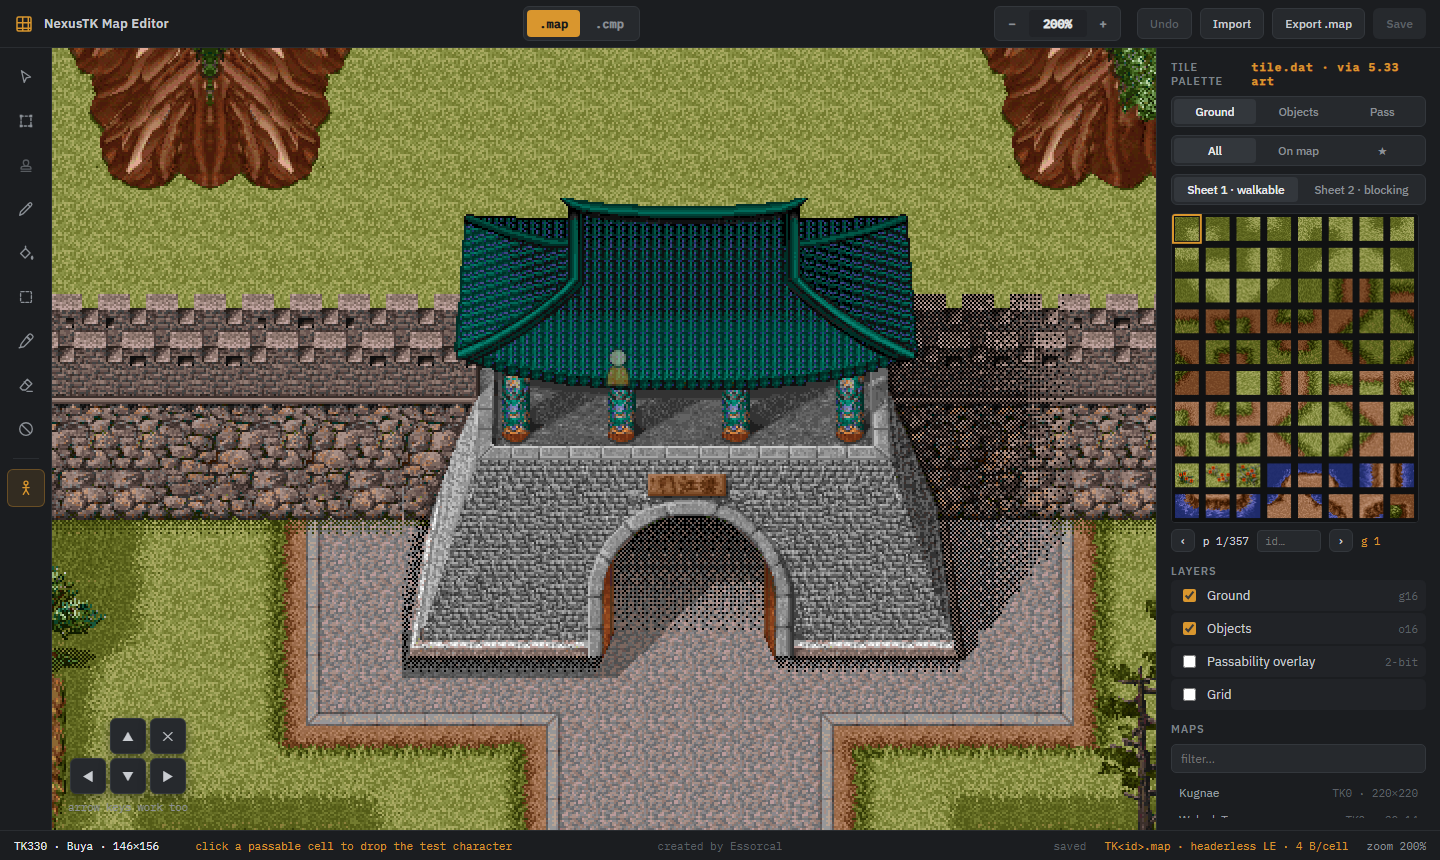
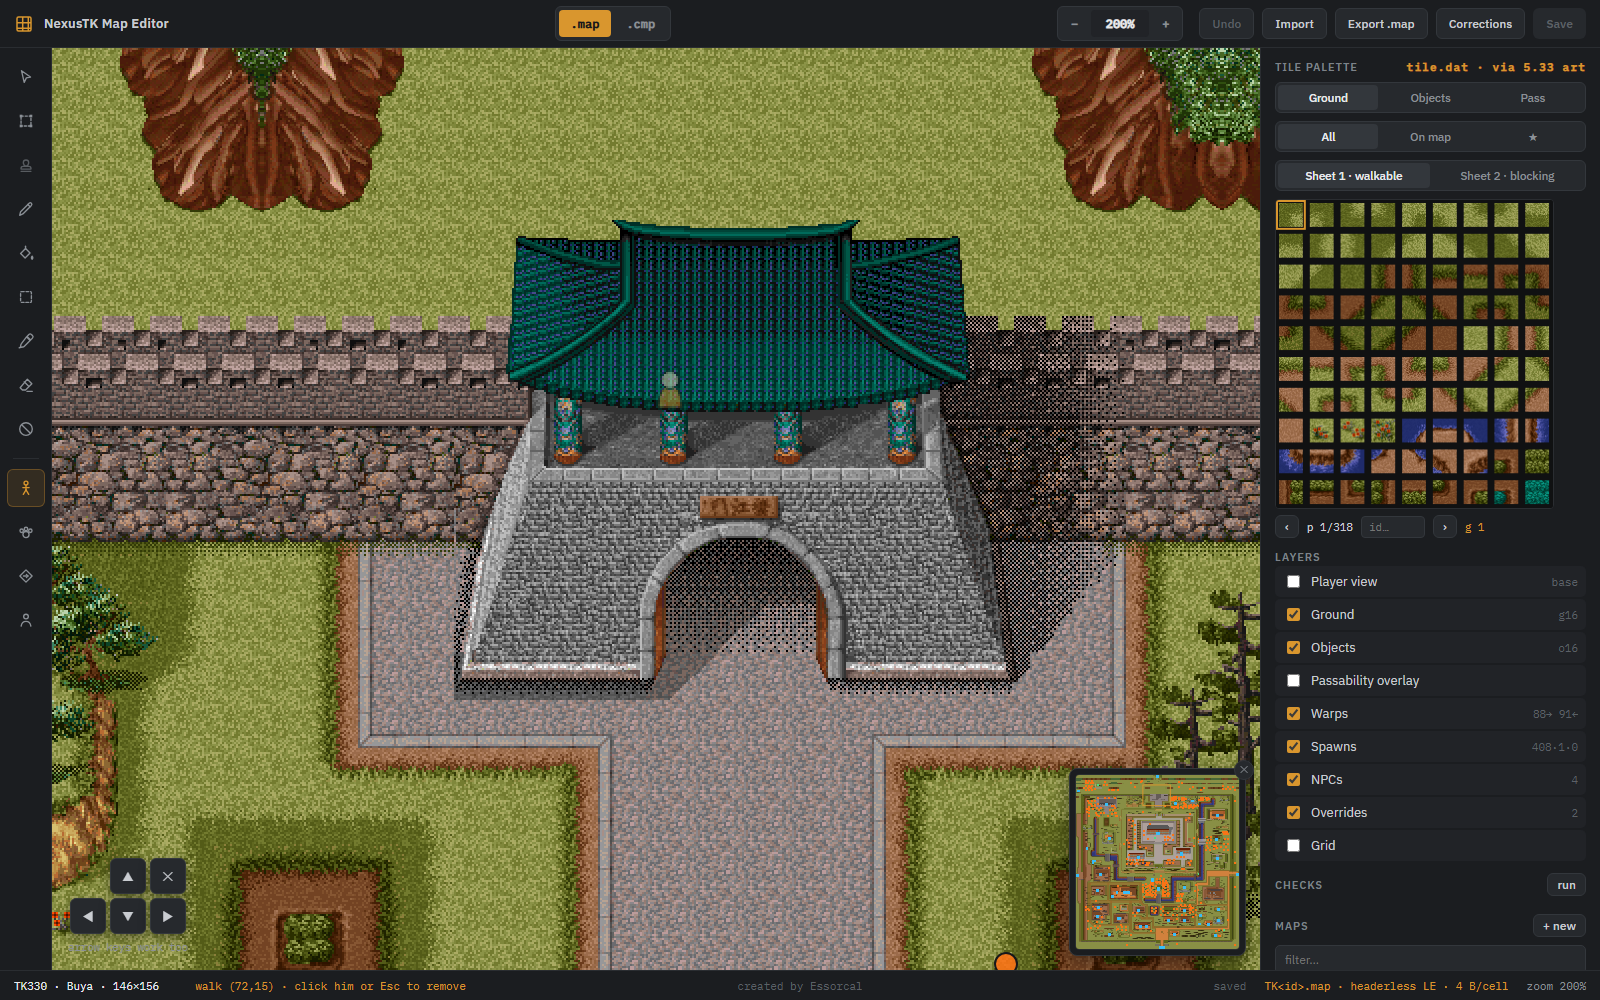
docs(mapeditor): README catch-up + refreshed screenshots
The intro, quick tour, saved-folder list, test-character, checks, and
URL-params sections catch up with everything since V1 (placement tools,
drafts, new maps, player view, warp following); all four screenshots retaken
against the current UI plus a new player-view shot of the south gate open.

diff --git a/MapEditor/README.md b/MapEditor/README.md
@@ -3,6 +3,11 @@
 A visual editor for Project1998's world maps. It renders the game's maps with the real
 5.33 client tile art — verified pixel-identical to the running game — and edits the 4.x
 `.map` files the server actually serves, with import/export for both client formats.
+Beyond tile painting it knows the *content* on the map (warps, spawns, NPCs,
+`MapCells.csv` overrides show as marker layers), can render exactly what players see
+(Player view), places new spawns/warps/NPCs and whole new maps, and turns edits into
+reviewable CSV rows — while **never writing a game file itself**: everything it
+produces lands in its own `saved\` folder for you to publish deliberately.
 
 ![The editor showing Kugnae](docs/img/ui-main.png)
 
@@ -35,8 +40,8 @@ The editor also needs the 5.33 client's `Tile.dat` for the artwork. It looks, in
 | next to the `.exe` | drop a copy of `Tile.dat` beside the program |
 | `%LOCALAPPDATA%\Project1998\game\533\` | the standard Project1998 client install |
 
-If either the maps or `Tile.dat` can't be found, the console says exactly what's missing
-and where it looked.
+If either the maps or `Tile.dat` can't be found, a message box says exactly what's
+missing and where it looked (the log has the same).
 
 ### From source
 
@@ -53,14 +58,20 @@ dotnet publish MapEditor/MapEditor.csproj -c Release -r win-x64 --self-contained
 ## A quick tour
 
 - **Top bar** — the `.map` / `.cmp` format switch (hover for which client each belongs
-  to), zoom controls, Undo, Import, Export, and Save.
+  to), zoom controls, Undo, Import, Export, **Corrections** (export `MapCells.csv`
+  rows), **Discard draft** (when the loaded map has one), and Save.
 - **Left rail** — the tools (hover any icon for what it does): select, marquee, stamp,
-  brush, flood fill, rectangle, eyedropper, eraser, passability toggle, and the test
-  character.
-- **Right panel** — the tile palette, layer toggles, and the map list. **Drag the
+  brush, flood fill, rectangle, eyedropper, eraser, passability toggle, then the test
+  character and the three placement tools — spawns (paw), warp pairs (diamond-arrow),
+  and NPCs (person).
+- **Right panel** — the tile palette, the layer toggles (including **Player view**),
+  the **Checks** lint, and the map list with **+ new** for creating maps. **Drag the
   panel's left edge** to make it wider; the palette grows more columns.
-- **Bottom bar** — current map, the cell under your cursor (its ground word, pass flag
-  and object id), tool hints, unsaved-change count, and zoom.
+- **Canvas overlays** — the clickable minimap floats bottom-right (✕ hides it), and
+  the active placement tool's box sits bottom-left.
+- **Bottom bar** — current map (and its `· draft` state), the cell under your cursor
+  (ground word, pass flag, object id, plus any markers on it), tool hints,
+  unsaved-change count, and zoom.
 
 ## Finding tiles
 
@@ -122,8 +133,10 @@ every blocking cell red.
 This is a development tool, so **nothing the editor generates goes into `game-data`**.
 Everything it produces lives with the tool under `dist\NexusTK-Map-Editor\saved\`:
 
-- `saved\maps\TK<id>.map` — draft saves (**Save / Ctrl+S**)
-- `saved\csvs\` — exported Corrections and Spawns rows
+- `saved\maps\TK<id>.map` — draft saves (**Save / Ctrl+S**), including new maps
+- `saved\csvs\` — exported rows: Corrections (`mapcells-TK<id>.csv`), spawns
+  (`spawns-TK<id>.csv`), warps (`warps-pending.csv`), NPCs (`npcs-pending.csv`)
+- `saved\new-maps.csv` — index rows for maps created in the editor
 
 Save **never overwrites the shipped map** in `game-data\maps`. Loading a map prefers its
 draft, so your work is there next session; the status bar shows `· draft`, and the map
@@ -140,16 +153,18 @@ Getting an edit into the actual game is deliberate and manual — either:
 
 ## The test character
 
-The last tool in the rail drops a walkable test character. Move with the **arrow keys**
-or the on-screen pad; blocked cells refuse the step, and walking behind trees, roofs and
-walls shows the same translucent ghost the real client draws. Remove the character by
-clicking it, pressing `Esc`, or the ✕ on the pad.
+The walk tool drops a test character. Move with the **arrow keys** or the on-screen
+pad; blocked cells refuse the step, and walking behind trees, roofs and walls shows the
+same translucent ghost the real client draws. It always walks the **base** pass flags —
+the ones the server actually enforces — so it strolls through the default-open city
+gates and onto override-fixed cells even when the raw file draws them blocked. Remove
+the character by clicking it, pressing `Esc`, or the ✕ on the pad.
 
 ![Test character ghosting behind the Buya north gate](docs/img/ui-walkmode.png)
 
 ## World markers
 
-Three read-only overlay layers (Layers panel) show the cells that server content points
+Read-only overlay layers (Layers panel) show the cells that server content points
 at, so you don't paint over them blind. They read the live `game-data` CSVs on every map
 load — edit a CSV and reload to see the change.
 
@@ -174,19 +189,29 @@ load — edit a CSV and reload to see the change.
   and check here before "fixing" a cell that may already be fixed: a new Corrections row
   for the same cell would shadow the existing hand-authored one.
 
-![Warp diamonds and spawn dots over Kugnae, minimap in the panel](docs/img/ui-markers.png)
+![Warp diamonds, spawn dots and override squares over Arctic Village](docs/img/ui-markers.png)
+
+![Player view opens Kugnae's south gate — the shipped file draws it closed](docs/img/ui-playerview.png)
 
 Hovering any marked cell names it in the bottom bar — the warp's destination, the mob,
 the NPC. Below 100% zoom the glyphs become solid cell tints so they stay visible in a
 whole-map overview.
 
+**Warps are usable, not just visible**: with the select tool, clicking a warp diamond
+follows it — a source jumps you to its landing on the destination map, an arrival jumps
+you back to its source. And the test character warps for real: step it onto a warp
+source and it lands on the other map, exactly like a player would — including your
+*pending* placed warps, so you can walk into a brand-new map through its unpublished
+door before a single row is appended.
+
 ## Checks
 
 The **run** button in the Checks section scans the loaded map for suspicious cells:
 warp **arrivals** and **spawn points** sitting on blocked ground, and walkable edges
-into void. Click a finding to jump to the cell. Blocked warp *sources* are deliberately
-not flagged — a doorway warp on a blocked cell is the game's normal idiom (the warp
-fires before collision is checked).
+into void. Click a finding to jump to the cell. It judges the **base** (a cell a
+`MapCells.csv` override already unblocks is not a finding), and blocked warp *sources*
+are deliberately not flagged — a doorway warp on a blocked cell is the game's normal
+idiom (the warp fires before collision is checked).
 
 ## Exporting corrections
 
@@ -203,8 +228,9 @@ too.
 
 The paw tool in the rail places monster spawn points. Pick a mob in the **spawn box**
 (bottom-left; search by name or id), then click cells — yellow dots mark pending points
-(click one to remove it; blocked cells are refused). Placements are per-map, live only
-in your browser, and survive reloads.
+(click one to remove it; blocked cells are refused). Placements are per-map, stored
+only in the editor's own local storage, and survive restarts — the same is true of
+pending warp pairs and NPCs.
 
 **Export rows** writes `Spawns.csv` rows for the pending points to
 `saved\csvs\spawns-TK<id>.csv`, `SpnId` numbered after the file's current maximum. Same
@@ -290,8 +316,8 @@ The address bar carries state you can link to:
 http://127.0.0.1:5959/?map=330&at=72,15&zoom=200
 ```
 
-`map` (id), `at` (x,y to center on), `zoom` (percent), and `walk` (x,y to drop the test
-character) all work.
+`map` (id), `at` (x,y to center on), `zoom` (percent), `walk` (x,y to drop the test
+character), and `view=player` (start in Player view) all work.
 
 ## Troubleshooting
 
